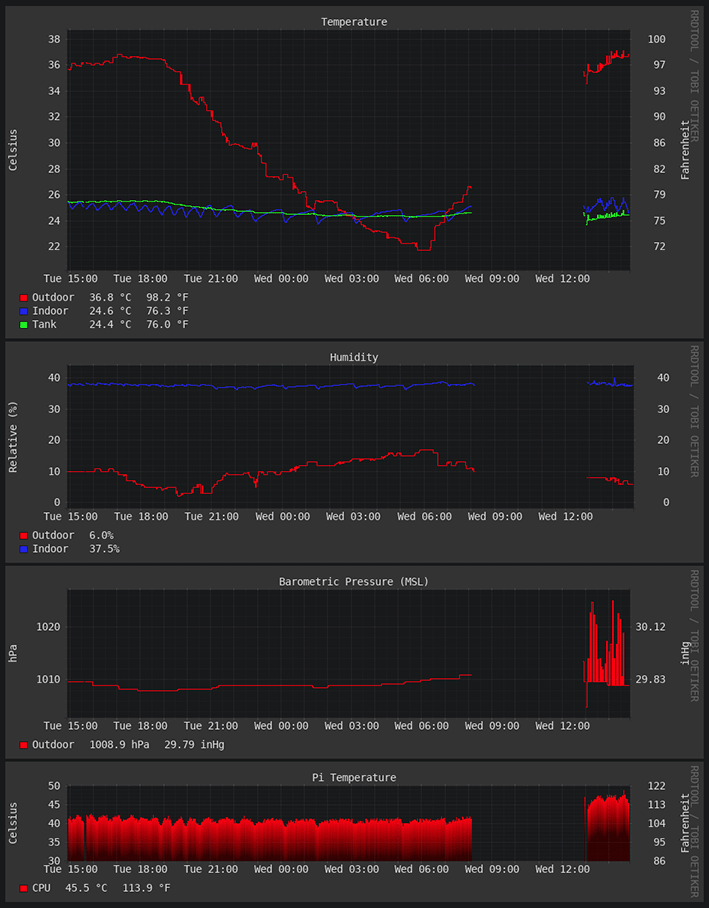
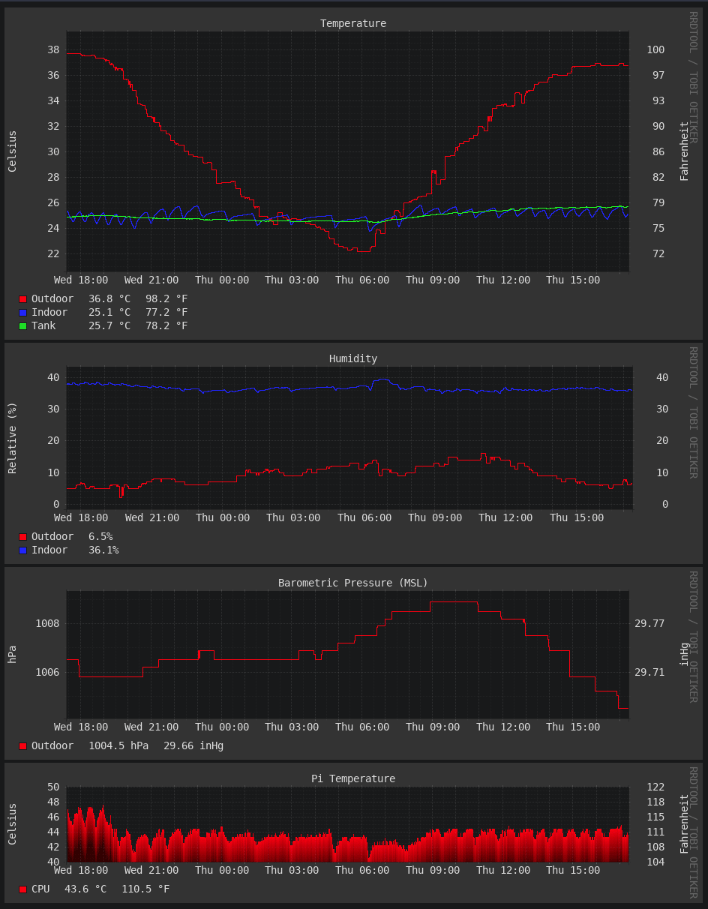
update screenshot

diff --git a/README.md b/README.md
@@ -4,8 +4,6 @@ tl;dr Yeah, but what does it look like?
 
 ![screenshot](screenshot.png)
 
-Please excuse the erratic graphs from development. I will update when the graphs stabilize.
-
 This started out as a project to control my reef aquarium, hence the name. It then morphed into a simple Python script to check the indoor temp/humidity and compare it with the outdoors using OpenWeather API. Update: It now monitors the temperature of my aquarium!
 
 Note: This project is now split into a FT232H version and a Raspberry Pi version. Updated 11/11/2021
